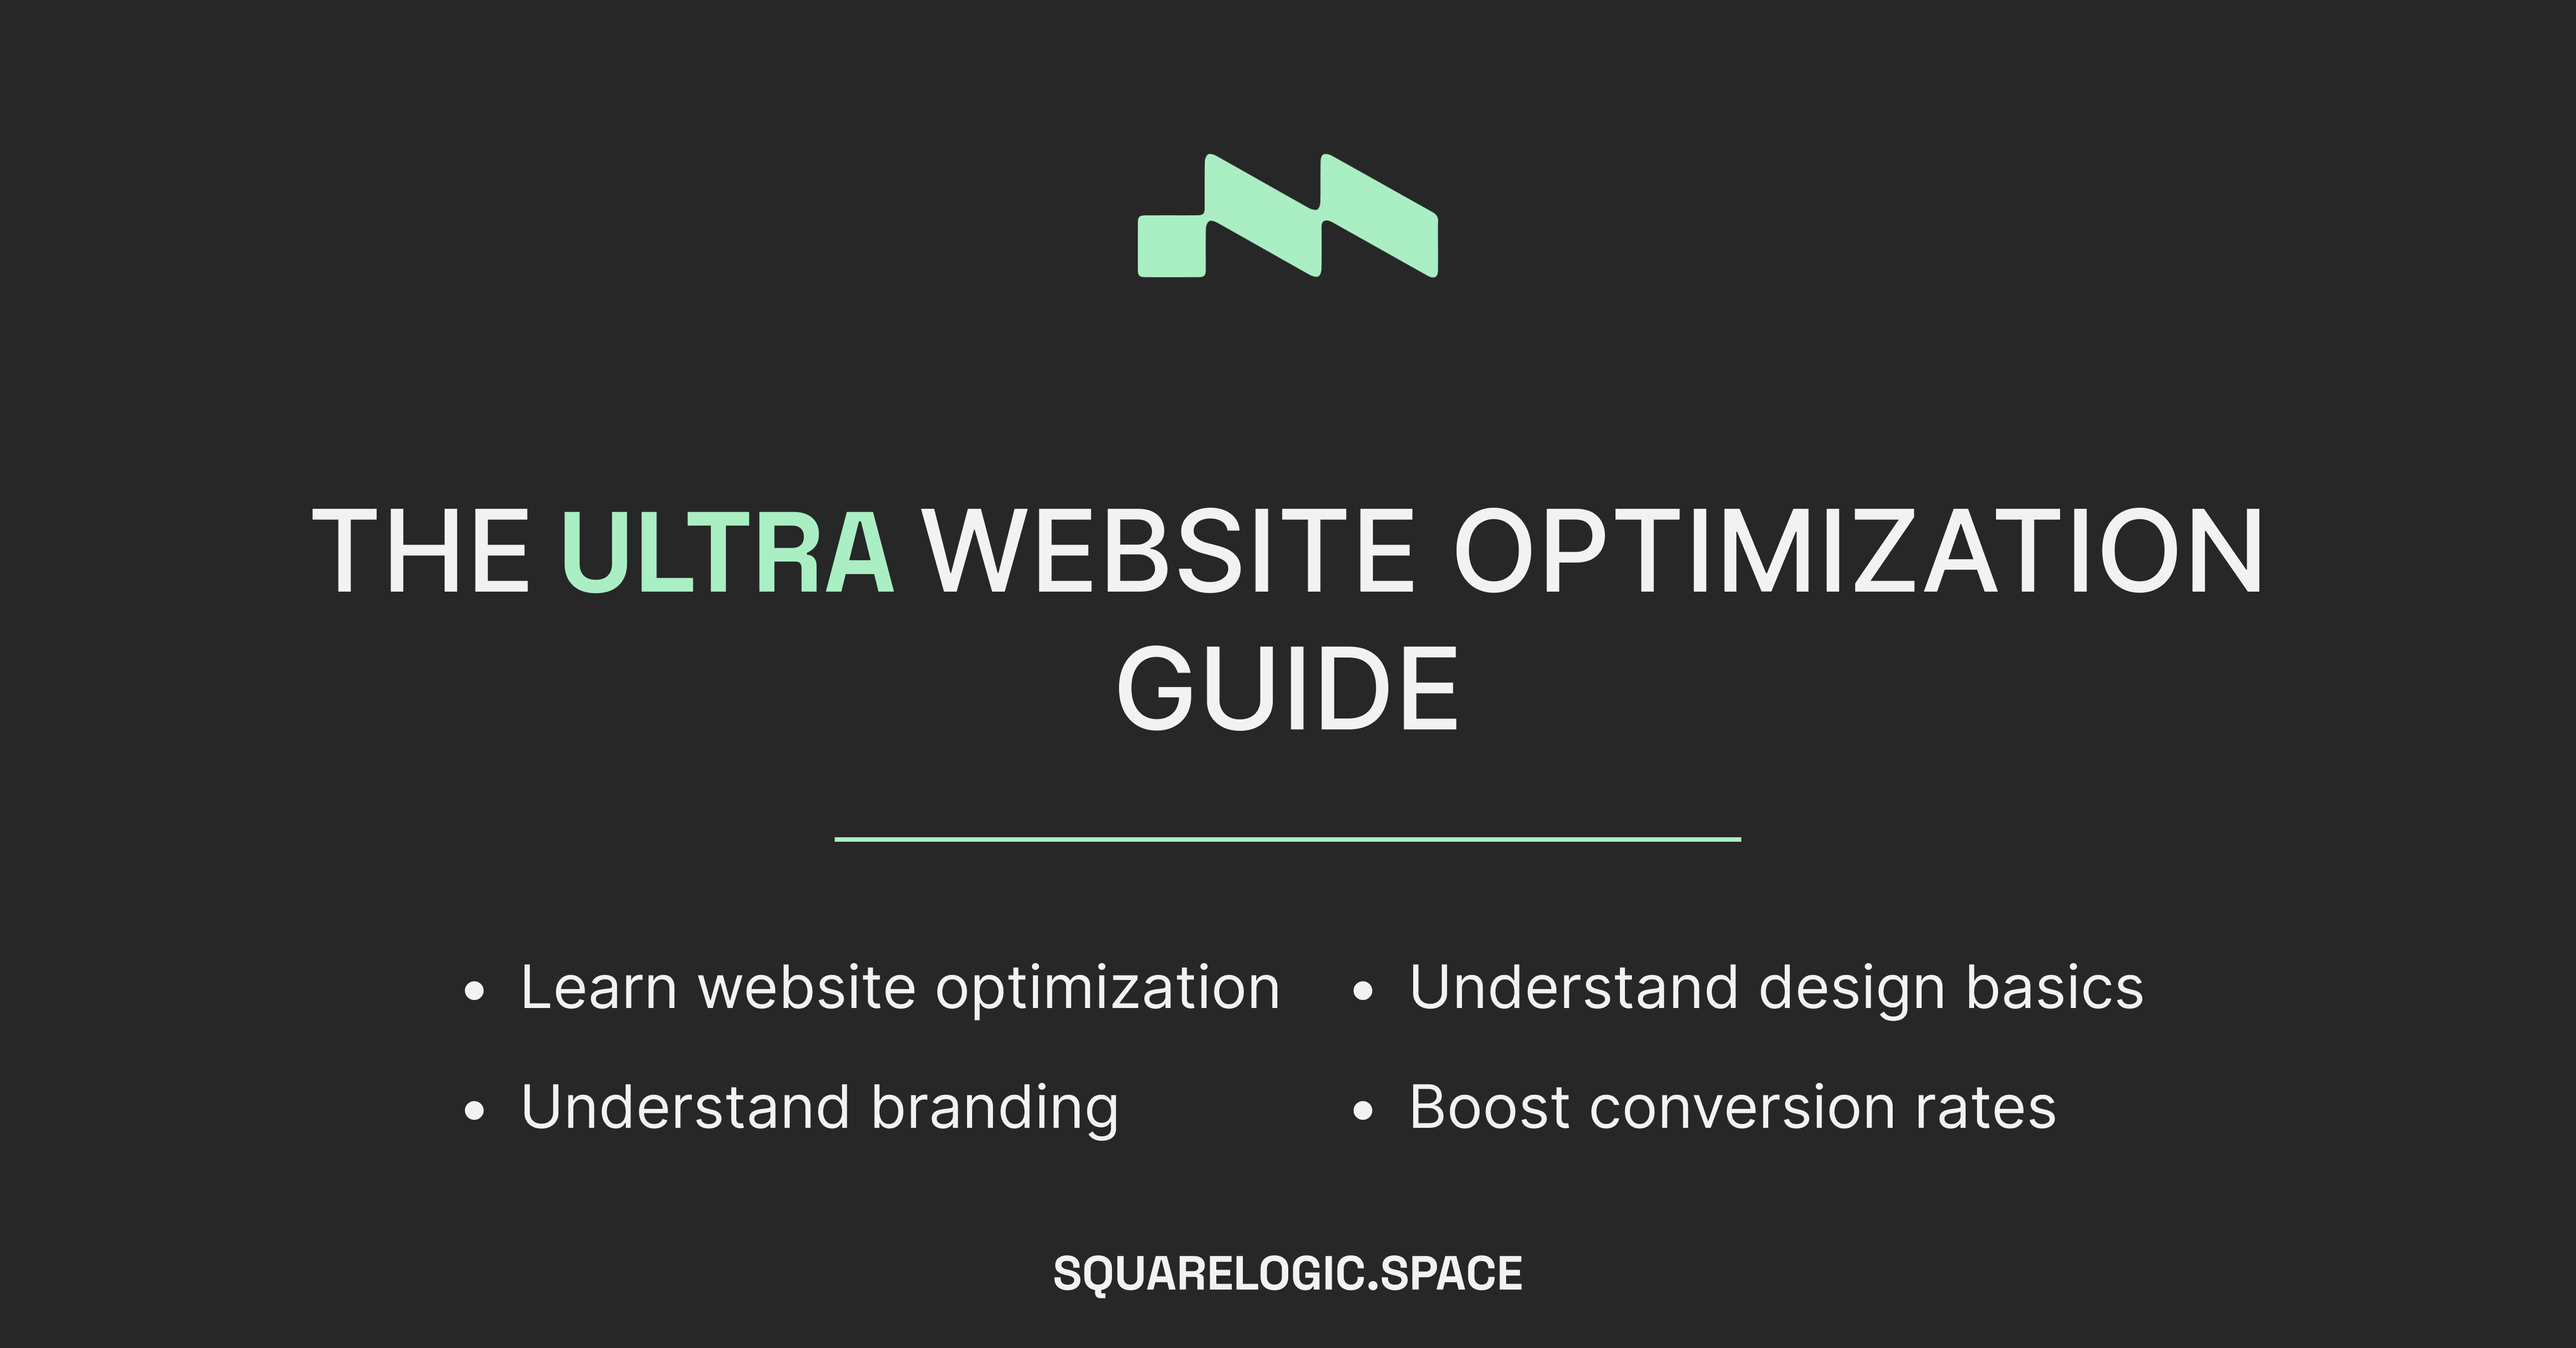
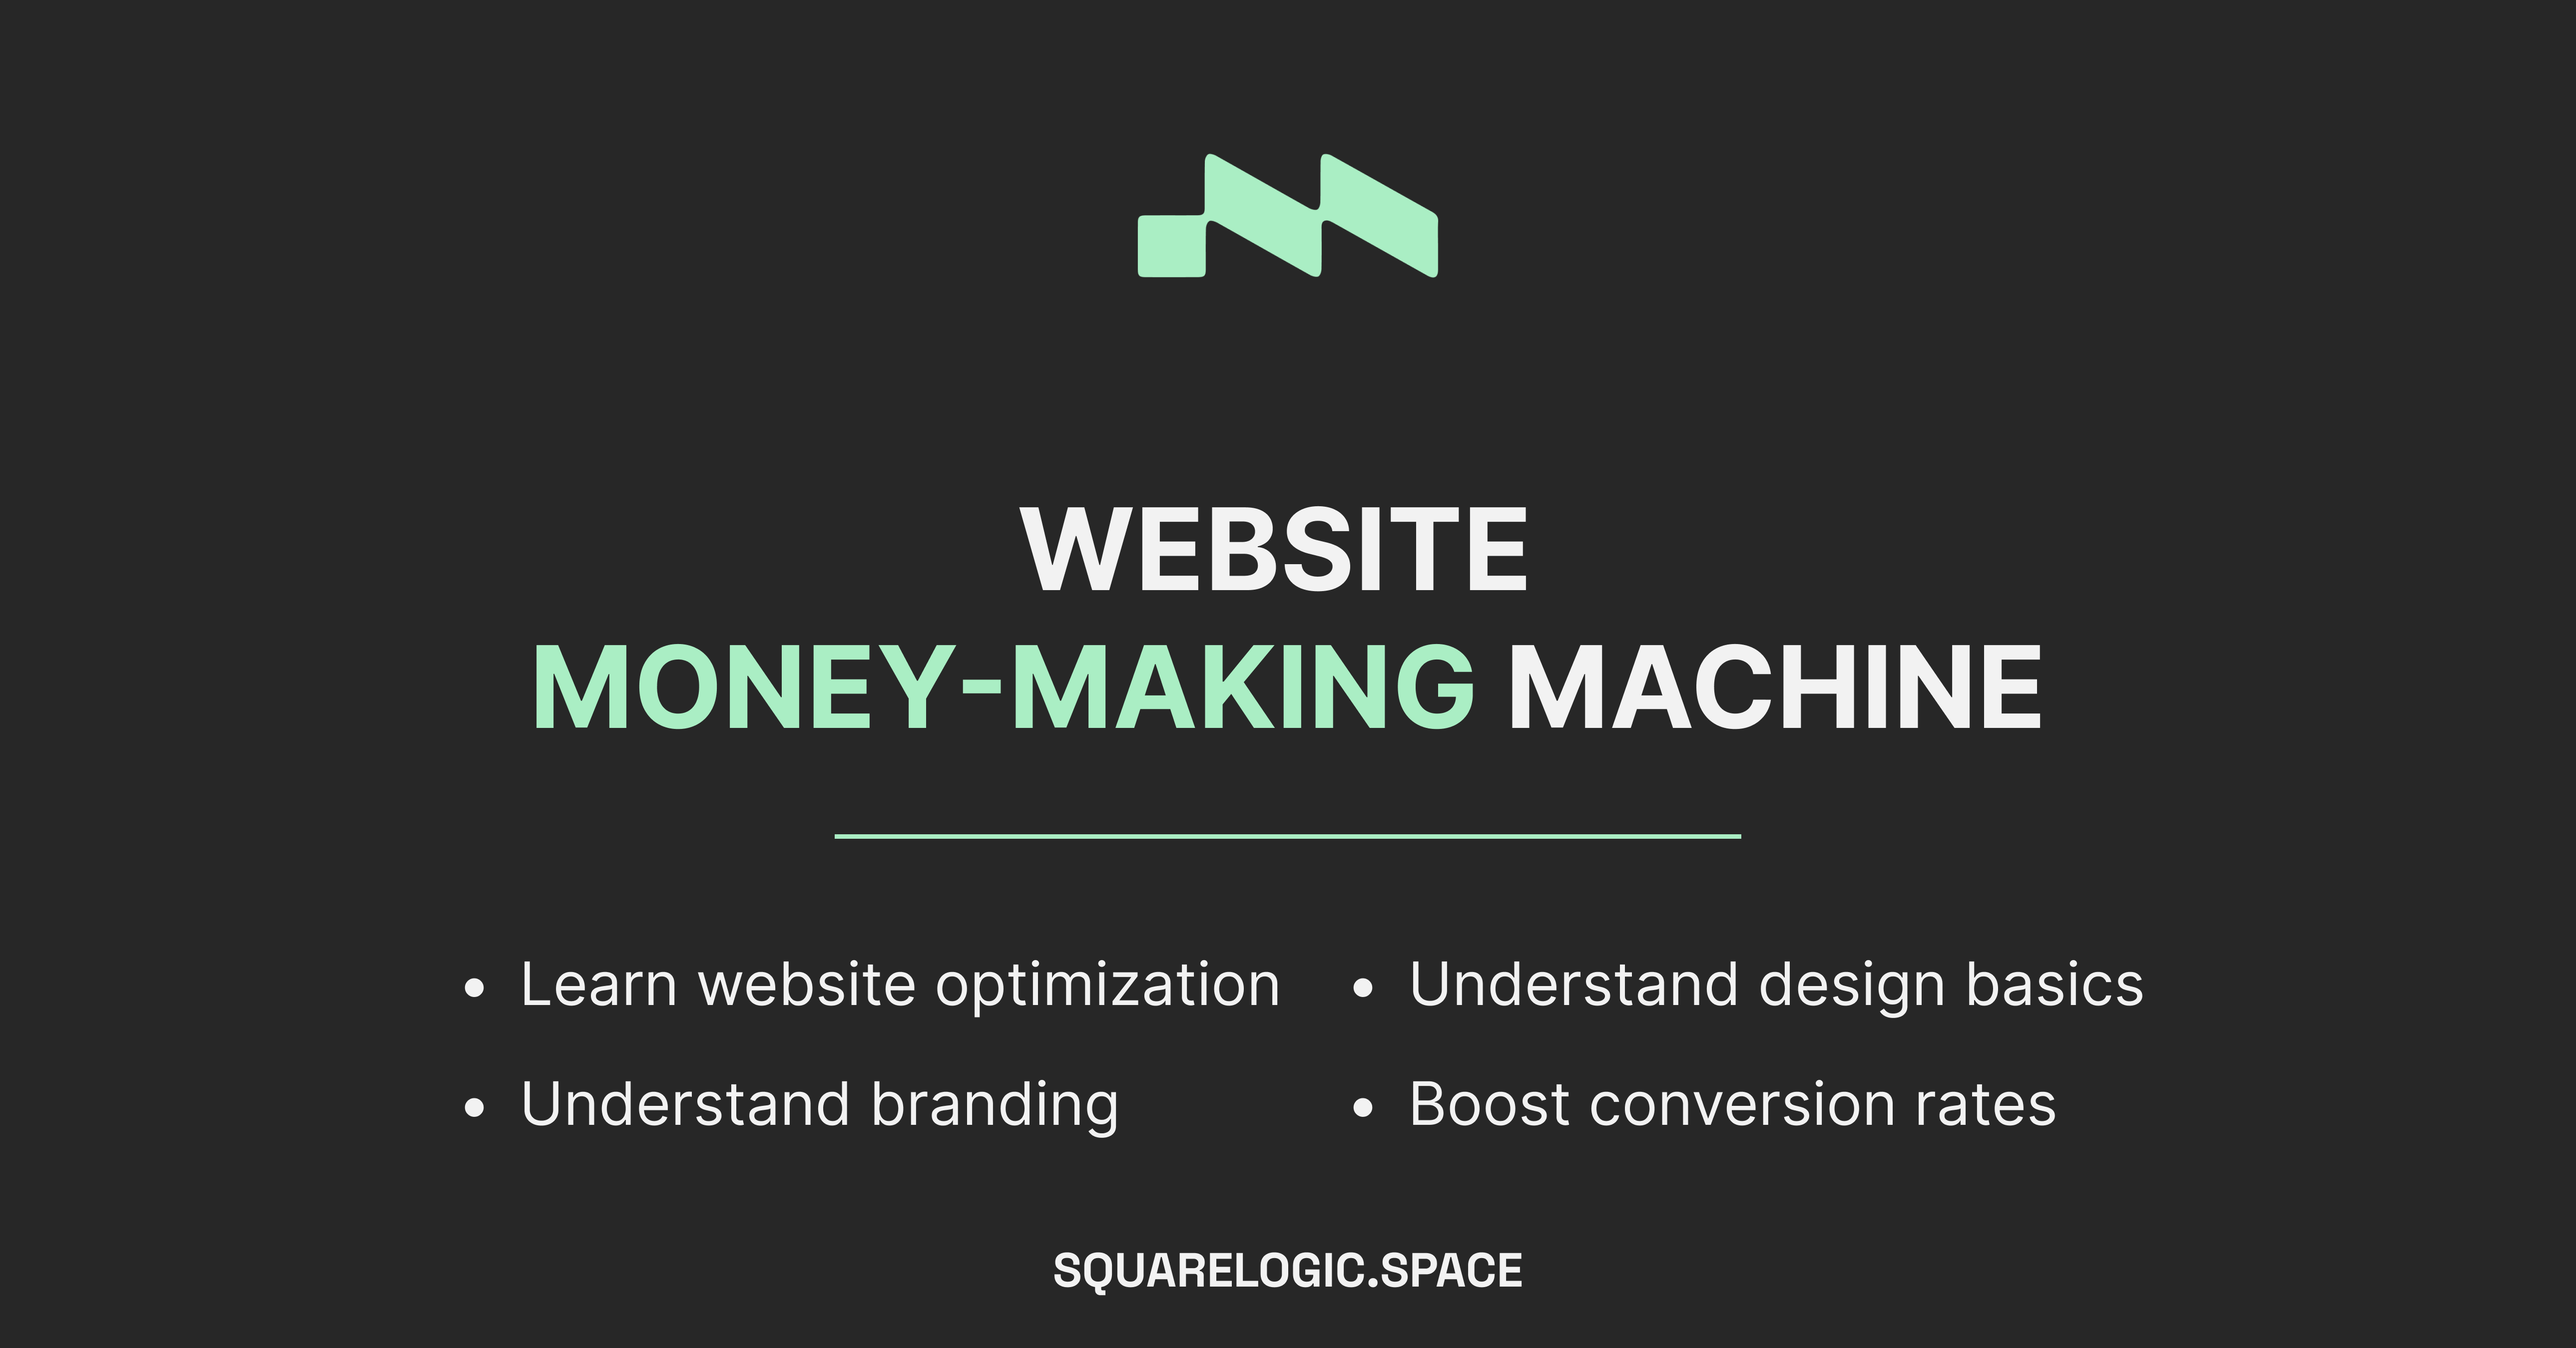
Update giveaway page metadata and form link

diff --git a/app/(main)/giveaway/page.tsx b/app/(main)/giveaway/page.tsx
@@ -4,21 +4,21 @@ import Image from "next/image";
 import { Metadata } from "next";
 
 export const metadata: Metadata = {
-  title: "The Ultra Website Optimization Guide | SQUARELOGIC",
+  title: "WEBSITE MONEY-MAKING MACHINE GUIDE | SQUARELOGIC",
   description:
-    "Get 'The Ultra Website Optimization Guide' now and learn how to optimize your website, understand branding, design basics, and boost conversion rates!",
+    "Get 'WEBSITE MONEY-MAKING MACHINE GUIDE' now and learn how to optimize your website, understand branding, design basics, and boost conversion rates!",
   twitter: {
-    title: "The Ultra Website Optimization Guide | SQUARELOGIC",
+    title: "WEBSITE MONEY-MAKING MACHINE GUIDE | SQUARELOGIC",
     description:
-      "Get 'The Ultra Website Optimization Guide' now and learn how to optimize your website, understand branding, design basics, and boost conversion rates!",
+      "Get 'WEBSITE MONEY-MAKING MACHINE GUIDE' now and learn how to optimize your website, understand branding, design basics, and boost conversion rates!",
     site: "SQUARELOGIC",
     card: "summary_large_image",
     images: ["/Giveaway.png"],
   },
   openGraph: {
-    title: "The Ultra Website Optimization Guide | SQUARELOGIC",
+    title: "WEBSITE MONEY-MAKING MACHINE GUIDE | SQUARELOGIC",
     description:
-      "Get 'The Ultra Website Optimization Guide' now and learn how to optimize your website, understand branding, design basics, and boost conversion rates!",
+      "Get 'WEBSITE MONEY-MAKING MACHINE GUIDE' now and learn how to optimize your website, understand branding, design basics, and boost conversion rates!",
     images: ["/Giveaway.png"],
     type: "website",
   },
@@ -39,7 +39,7 @@ const Giveaway = () => {
           />
         </div>
         <h1 className="text-[50px] text-WHITE uppercase font-INTER font-medium text-center max-md:text-[40px] max-sm:text-4xl">
-          The <span className="text-ACCENT font-bold">Ultra</span> Website Optimization Guide
+          WEBSITE <span className="text-ACCENT font-bold">MONEY-MAKING</span> MACHINE GUIDE
         </h1>
         <div className="line border-t-[3px] border-ACCENT w-[60%] max-md:w-[80%]"></div>
         <div className="grid grid-cols-TWO gap-20 font-INTER text-2xl leading-[200%] max-lg:text-xl max-md:flex max-md:flex-col max-md:gap-0 max-md:text-2xl max-sm:text-xl">

diff --git a/components/Giveaway/GiveawayForm.tsx b/components/Giveaway/GiveawayForm.tsx
@@ -46,7 +46,7 @@ const GiveawayForm = () => {
     });
     setTimeout(() => {
       window.location.assign(
-        "https://dark-koala-258.notion.site/THE-ULTRA-WEBSITE-OPTIMIZATION-GUIDE-DETAILED-1ebb66824a644944a650af0bc98b3b3b",
+        "https://dark-koala-258.notion.site/WEBSITE-MONEY-MAKING-MACHINE-GUIDE-DETAILED-1ebb66824a644944a650af0bc98b3b3b?pvs=4",
       );
     }, 2000);
   };
